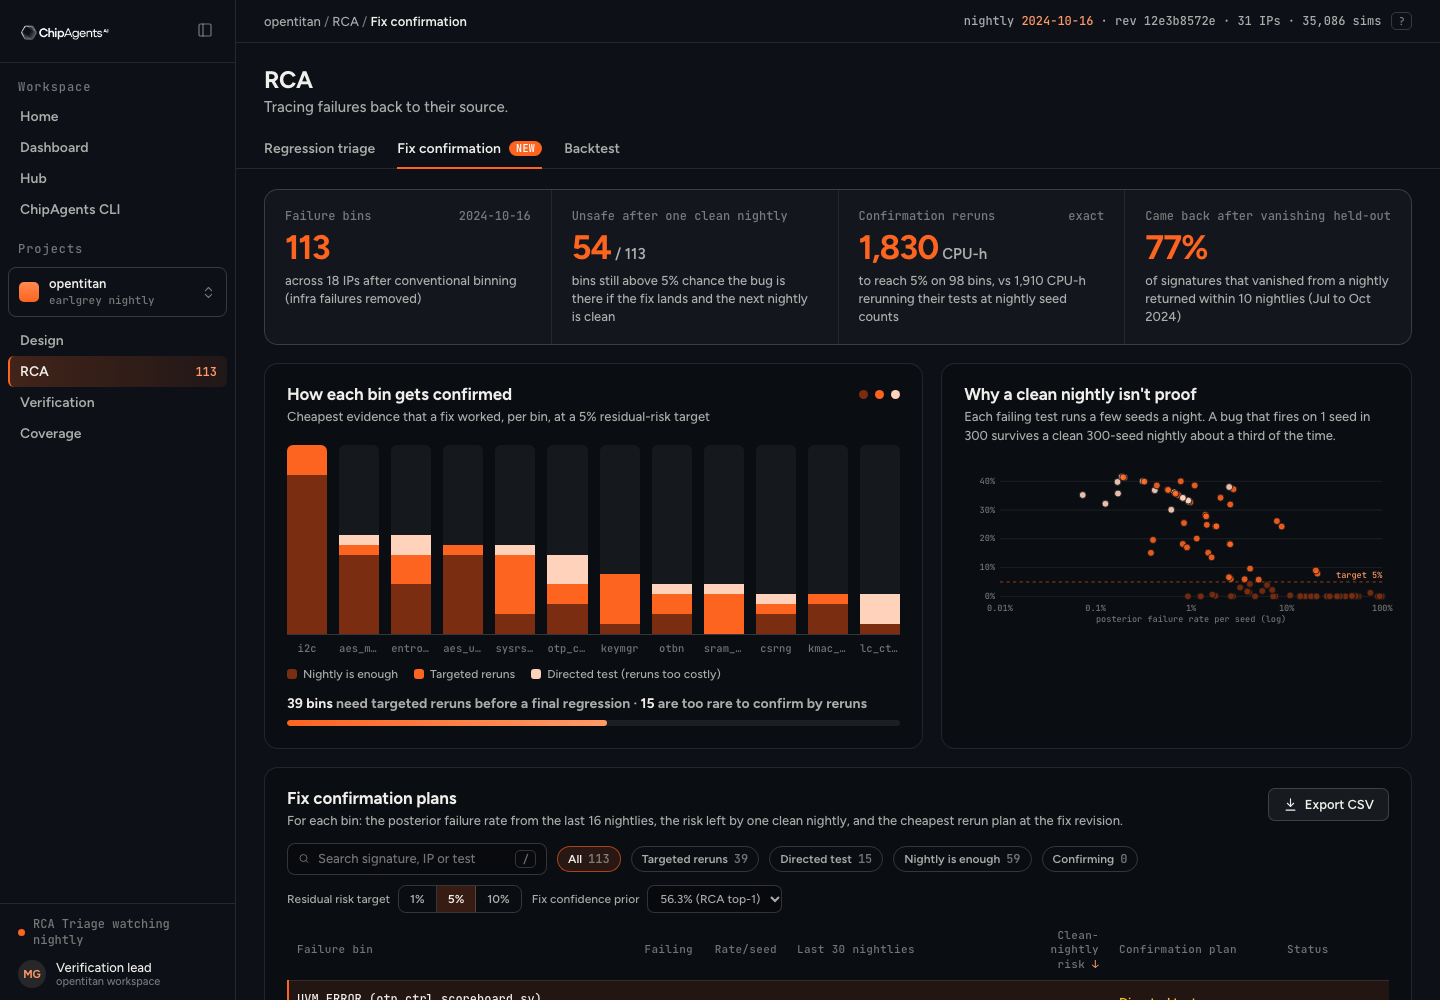
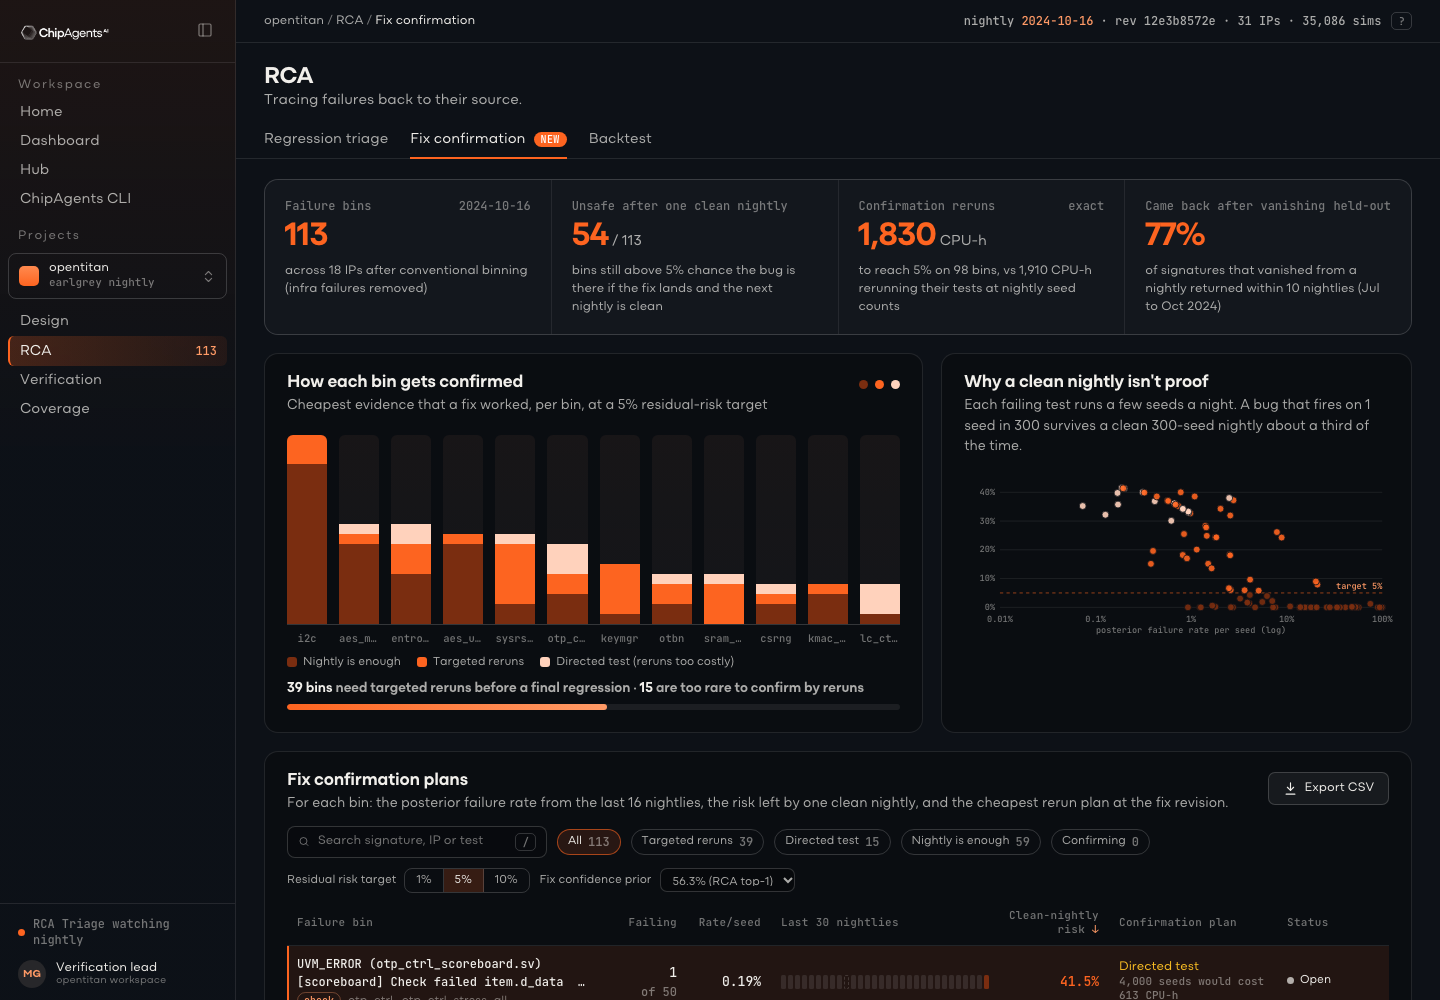
UI polish: sidebar warmth, caps weight, column widths; evidence history chart

diff --git a/styles.css b/styles.css
@@ -36,13 +36,13 @@ a { color: var(--o); text-decoration: none; } a:hover { color: var(--o2); }
 
 /* ---------- shell ---------- */
 .app { display: grid; grid-template-columns: 236px minmax(0, 1fr); min-height: 100vh; background:
-  radial-gradient(900px 520px at 8% -8%, rgba(253, 100, 32, .13), transparent 62%), radial-gradient(1200px 500px at 85% -10%, rgba(255, 154, 102, .05), transparent 60%), var(--ink); }
+  radial-gradient(900px 560px at 6% -6%, rgba(253, 100, 32, .17), transparent 62%), radial-gradient(1200px 500px at 85% -10%, rgba(255, 154, 102, .05), transparent 60%), var(--ink); }
 .app.collapsed { grid-template-columns: 64px minmax(0, 1fr); }
-.side { border-right: 1px solid var(--line); padding: 16px 0 12px; display: flex; flex-direction: column; position: sticky; top: 0; height: 100vh; background: rgba(13, 17, 23, .58); }
+.side { border-right: 1px solid var(--line); padding: 16px 0 12px; display: flex; flex-direction: column; position: sticky; top: 0; height: 100vh; background: linear-gradient(180deg, rgba(60, 28, 14, .35), rgba(13, 17, 23, .58) 45%); }
 .logo { padding: 2px 18px 16px; border-bottom: 1px solid var(--line); display: flex; align-items: center; justify-content: space-between; gap: 8px; }
 .logo img { height: 21px; width: auto; display: block; }
 .logo .tog { color: var(--dim); padding: 4px; border-radius: 6px; } .logo .tog:hover { color: var(--tx); background: rgba(244,244,244,.06); }
-.cap { font-size: 13px; font-weight: 700; letter-spacing: .12em; color: var(--dim); padding: 16px 18px 6px; }
+.cap { font-size: 13px; font-weight: 600; letter-spacing: .12em; color: var(--dim); padding: 16px 18px 6px; }
 .nav { display: flex; justify-content: space-between; align-items: center; width: calc(100% - 16px); margin: 0 8px; padding: 7px 10px; font-size: 15px; font-weight: 500; color: var(--mut); border-left: 2px solid transparent; border-radius: 6px; transition: all .15s; }
 .nav:hover { color: var(--tx); background: rgba(244, 244, 244, .04); }
 .nav.on { color: var(--tx); border-left-color: var(--o); background: linear-gradient(90deg, rgba(253, 100, 32, .22), rgba(253, 100, 32, .08)); }
@@ -151,7 +151,7 @@ a { color: var(--o); text-decoration: none; } a:hover { color: var(--o2); }
 
 /* charts */
 .bars { display: grid; gap: 12px; height: 190px; margin-top: 18px; border-bottom: 1px solid var(--line2); align-items: end; }
-.col { display: flex; flex-direction: column-reverse; background: rgba(244, 244, 244, .05); border-radius: 6px 6px 0 0; overflow: hidden; height: 100%; position: relative; cursor: default; }
+.col { display: flex; flex-direction: column-reverse; background: linear-gradient(180deg, rgba(253, 160, 120, .06), rgba(244, 244, 244, .04)); border-radius: 6px 6px 0 0; overflow: hidden; height: 100%; position: relative; cursor: default; }
 .col i { display: block; }
 .col:hover { outline: 1px solid var(--line2); }
 .xl { display: grid; gap: 12px; margin-top: 6px; font-family: var(--mono); font-size: 10.5px; color: var(--dim); text-align: center; }

diff --git a/app.js b/app.js
@@ -269,7 +269,7 @@ function drawConfirmTable() {
   const th = (k, l, cls = '') => `<th class="s ${cls}" data-k="${k}" aria-sort="${key === k ? (dir > 0 ? 'ascending' : 'descending') : 'none'}">${l} ${key === k ? `<span class="arr">${dir > 0 ? '↑' : '↓'}</span>` : ''}</th>`;
   const d = state.settings.delta;
   if (!rows.length) { $('#tbl').innerHTML = `<div class="empty"><b>No bins match</b>Try another filter or clear the search.</div>`; return; }
-  $('#tbl').innerHTML = `<div class="tblwrap"><table class="tbl fixed"><colgroup><col style="width:auto"><col style="width:92px"><col style="width:84px"><col style="width:226px"><col style="width:96px"><col style="width:168px"><col style="width:112px"></colgroup><thead><tr>
+  $('#tbl').innerHTML = `<div class="tblwrap"><table class="tbl fixed"><colgroup><col style="width:auto"><col style="width:92px"><col style="width:84px"><col style="width:226px"><col style="width:112px"><col style="width:168px"><col style="width:112px"></colgroup><thead><tr>
     ${th('ip', 'Failure bin')}${th('fails', 'Failing', 'num')}${th('rate', 'Rate/seed', 'num')}<th>Last 30 nightlies</th>${th('risk', 'Clean-nightly risk', 'num wrap')}${th('cpu', 'Confirmation plan')}<th>Status</th></tr></thead>
     <tbody>${rows.map((b, i) => { const m = model(b); const lo = C.betaQuantile(0.05, m.items[0].a, m.items[0].b), hi = C.betaQuantile(0.95, m.items[0].a, m.items[0].b);
       return `<tr class="rowlink ${i === state.sel ? 'sel' : ''}" data-href="#/bin/${encodeURIComponent(b.id)}" tabindex="0">
